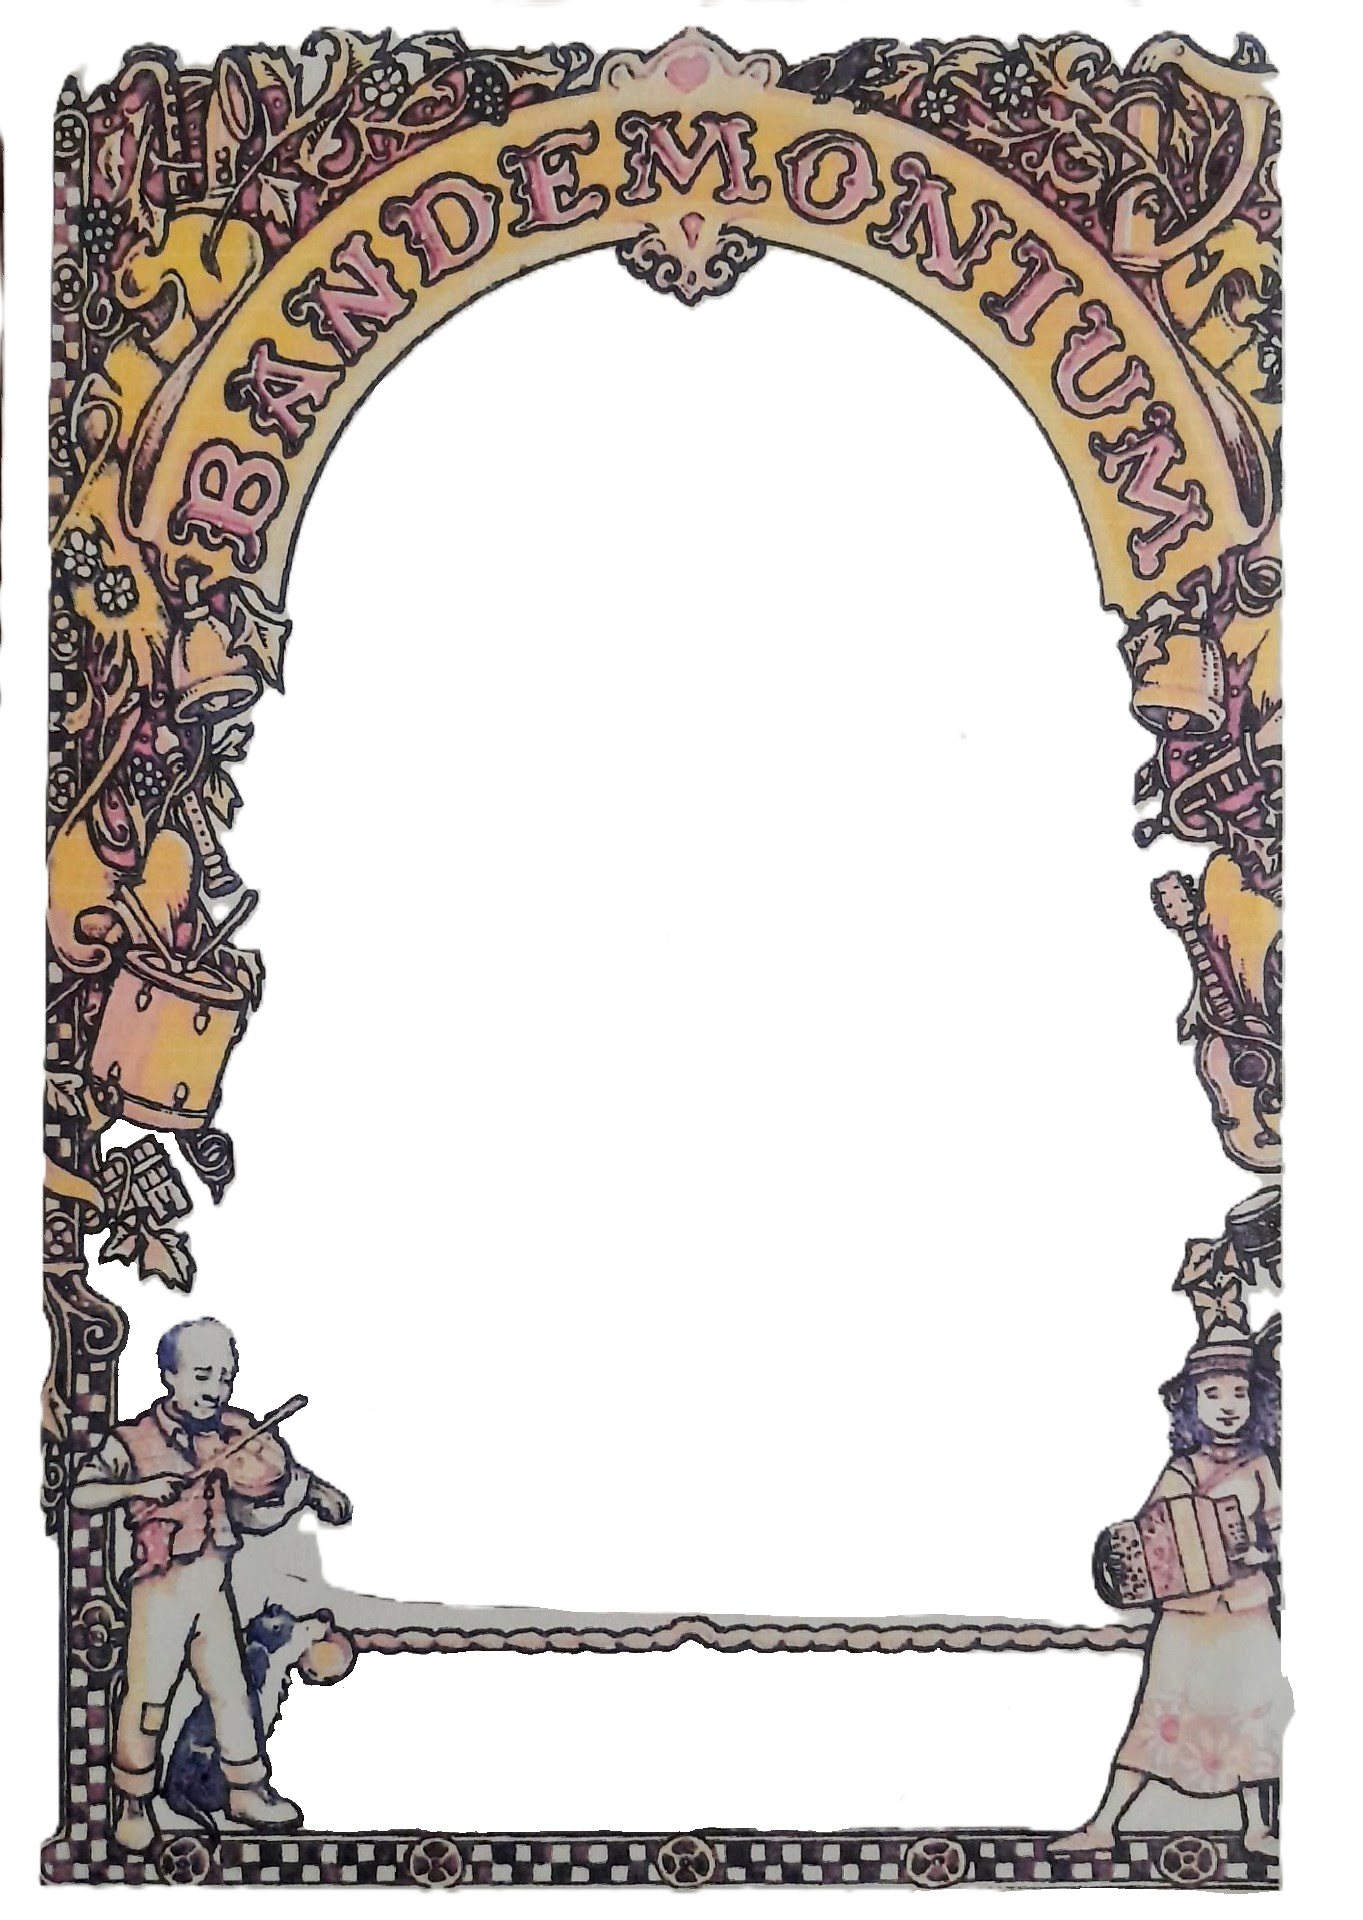
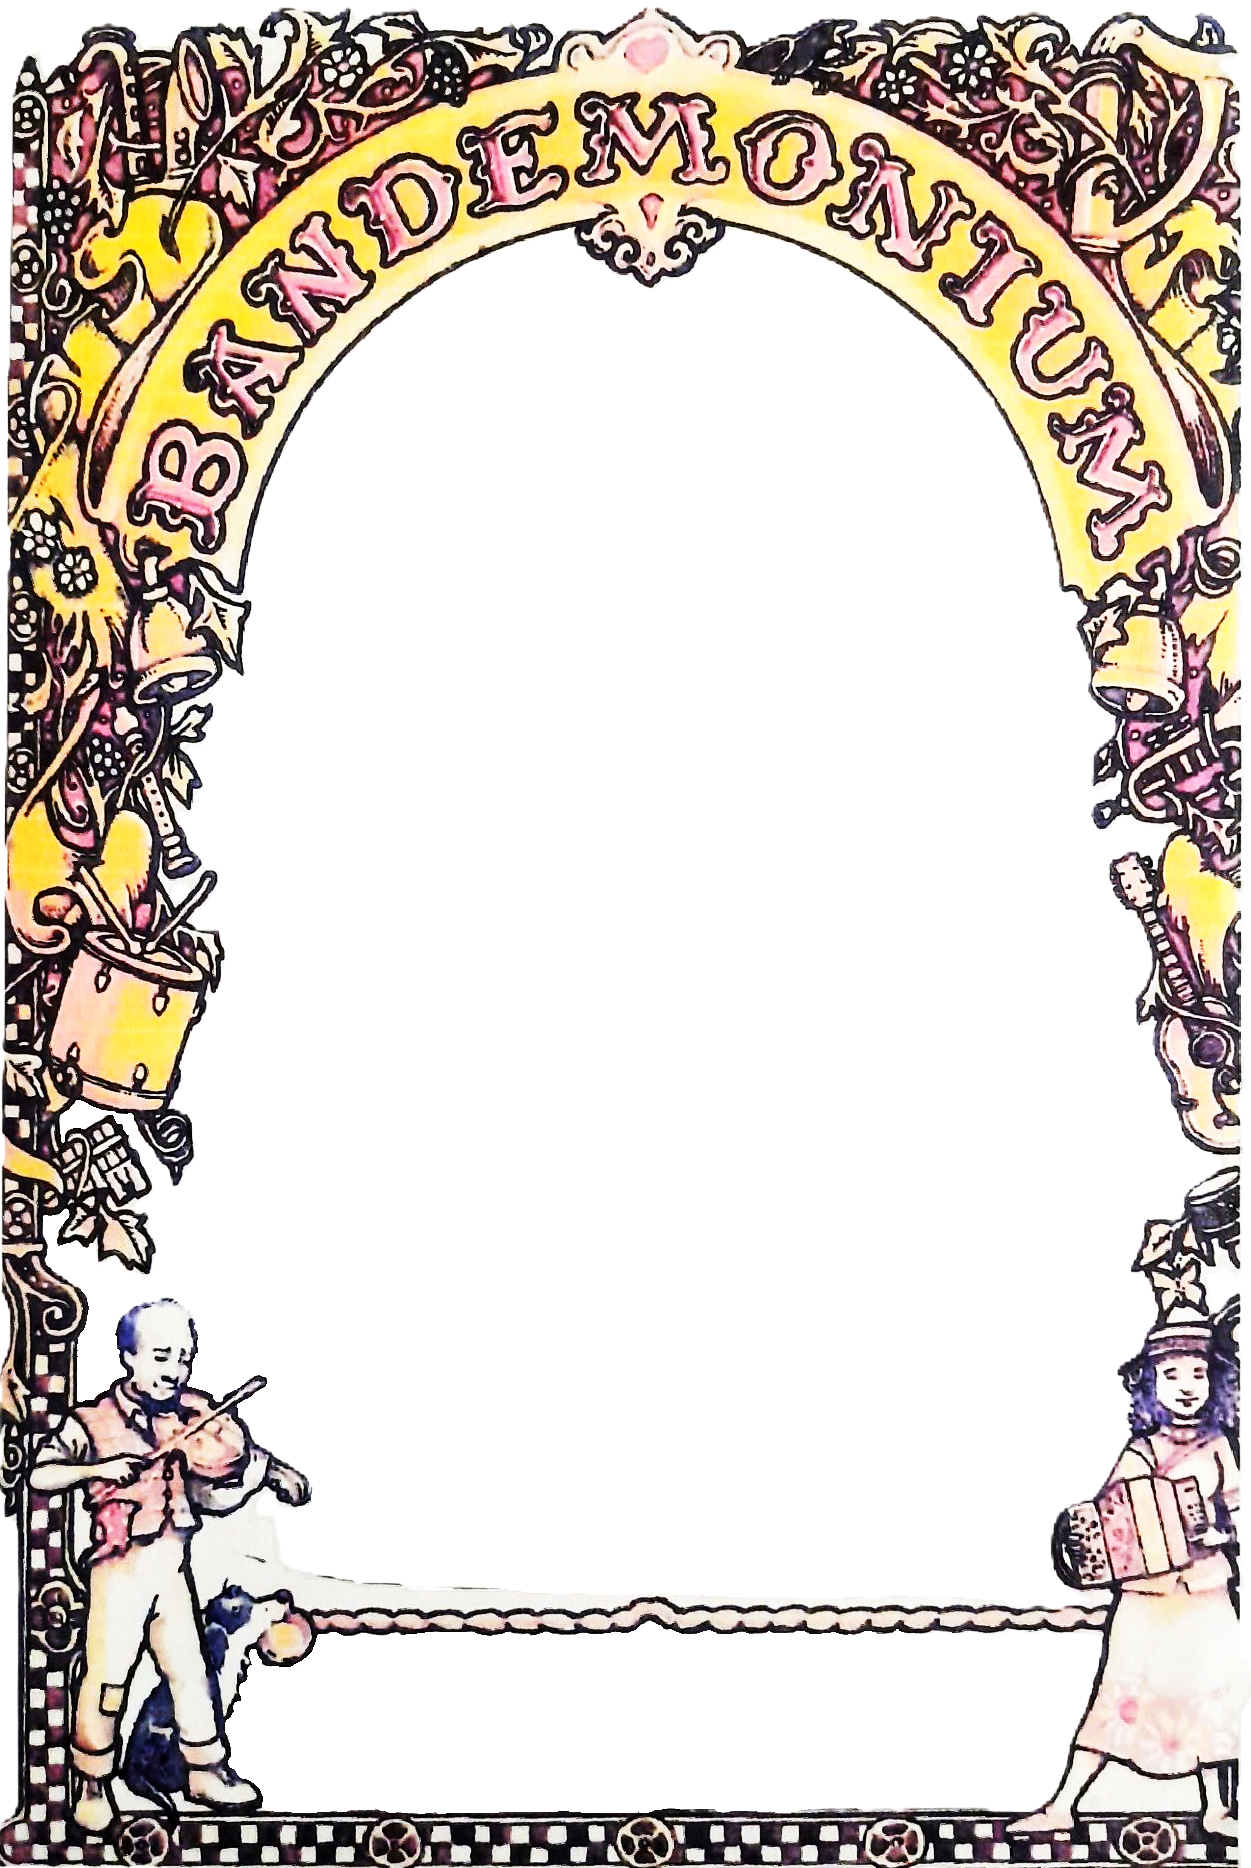
Updated client site

diff --git a/Bandemonium/style.css b/Bandemonium/style.css
@@ -1,29 +1,35 @@
 body {
     font-family: 'Comic Sans MS', cursive, sans-serif;
-    background-image: url('media/backgroundEdit2.png');
+    background-image: url('media/background.png');
     background-size: cover;
     background-size: 100% auto;
     background-attachment: scroll;
     background-repeat: no-repeat;
-    max-height: 1868px;
+    min-height: 180rem;
     overflow-x: hidden;
+    margin: 0;
+    padding: 0;
 }
 
+body {
+    height: auto;
+}
 
 .headerPadding {
-    height: 65vh;
+    height: 37.7rem;
 }
 
 .footerPadding {
-    position: absolute;
+    position: relative;
     width: 100%;
     display: flex;
     align-items: center;
     justify-content: center;
     flex-direction: column;
-    margin-top: 22vh;
+    margin-top: 18rem;
     margin-left: 0;
-    height: 25vh;
+    height: 15.7rem;
+    gap: 2rem;
 }
 
 p {
@@ -32,7 +38,7 @@ p {
     width: 40%;
     left: 50%;
     transform: translate(-50%, 0);
-    margin-bottom: 10vh;
+    margin-bottom: 5.8rem;
 }
 
 .contact {
@@ -40,5 +46,49 @@ p {
 }
 
 .tagline {
-    font-size: 3vh;
+    font-size: 1.75rem;
+}
+
+.mobileBottom {
+    display: none;
+}
+
+@media (max-width: 768px) {
+    body {
+        background-image: url('media/backgroundMobile.png');
+        min-height: 0;
+    }
+
+    .headerPadding {
+        height: 14rem;
+    }
+
+    .footerPadding {
+        height: 5rem;
+        margin-top: 2.5rem;
+    }
+
+    p {
+        font-size: 1.2rem;
+        width: 70%;
+        margin-bottom: 2.9rem;
+    }
+
+    .contact {
+        font-size: 1.2rem;
+    }
+
+    .tagline {
+        font-size: 1rem;
+    }
+    .mobileBottom {
+        display: block;
+        position: relative;
+        width: 100%;
+        height: 5rem;
+        margin-top: 2rem;
+        background-image: url('media/mobileBottom.png');
+        background-size: cover;
+        background-repeat: no-repeat;
+    }
 }

diff --git a/Bandemonium/index.html b/Bandemonium/index.html
@@ -16,5 +16,6 @@
             <label class="contact">Contact us at <a href="mailto:hellobandy1@gmail.com">hellobandy1@gmail.com</a></label>
             <label class="tagline"><b>Bandemonium - Music for everyone since 1985</b></label>
         </div>
+        <div class="mobileBottom"></div>
     </body>
 </html>
